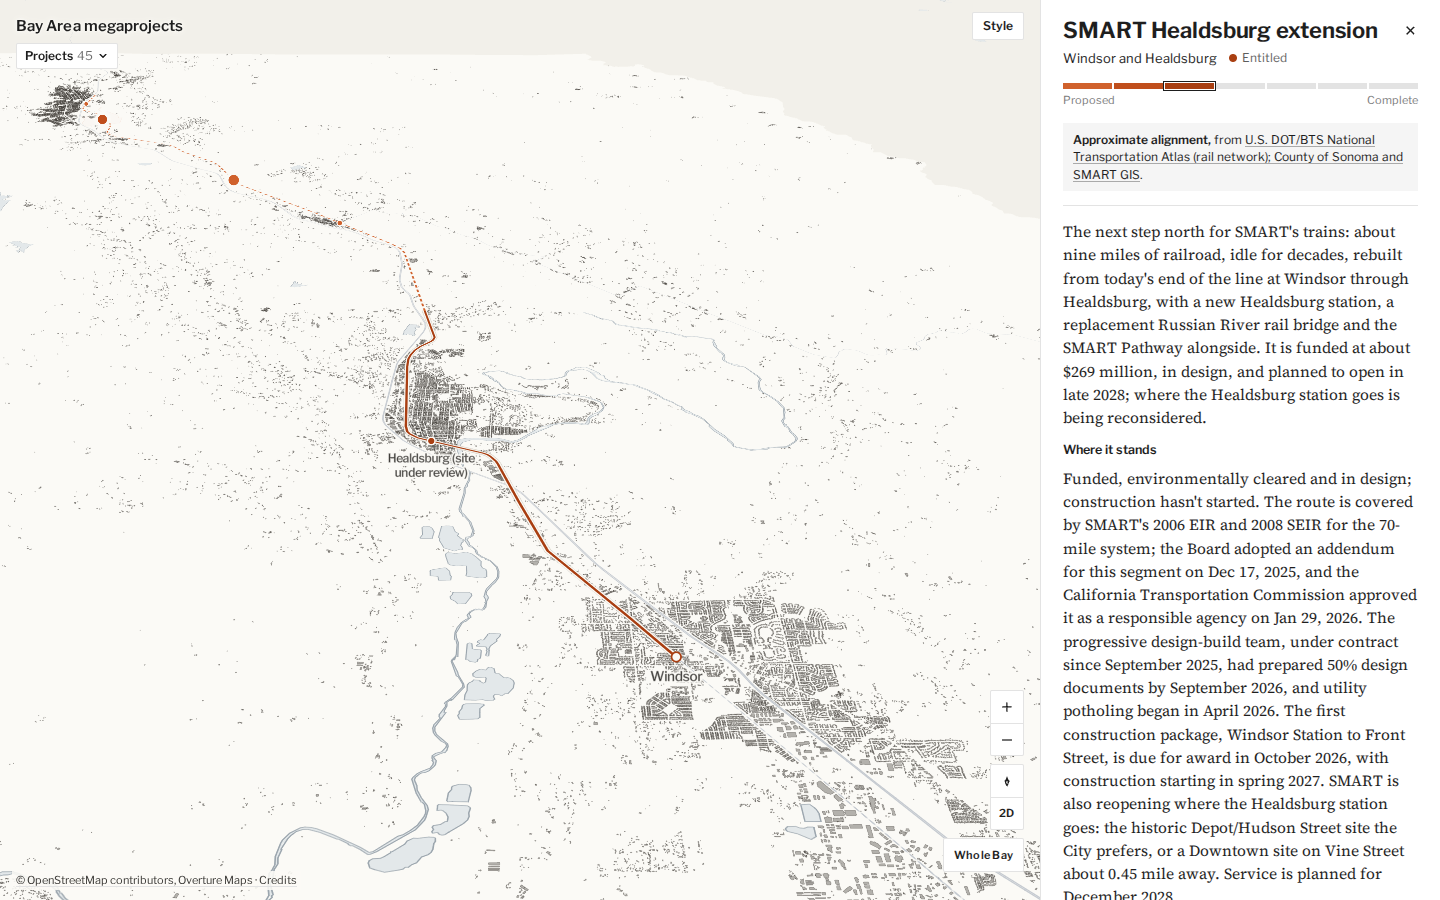
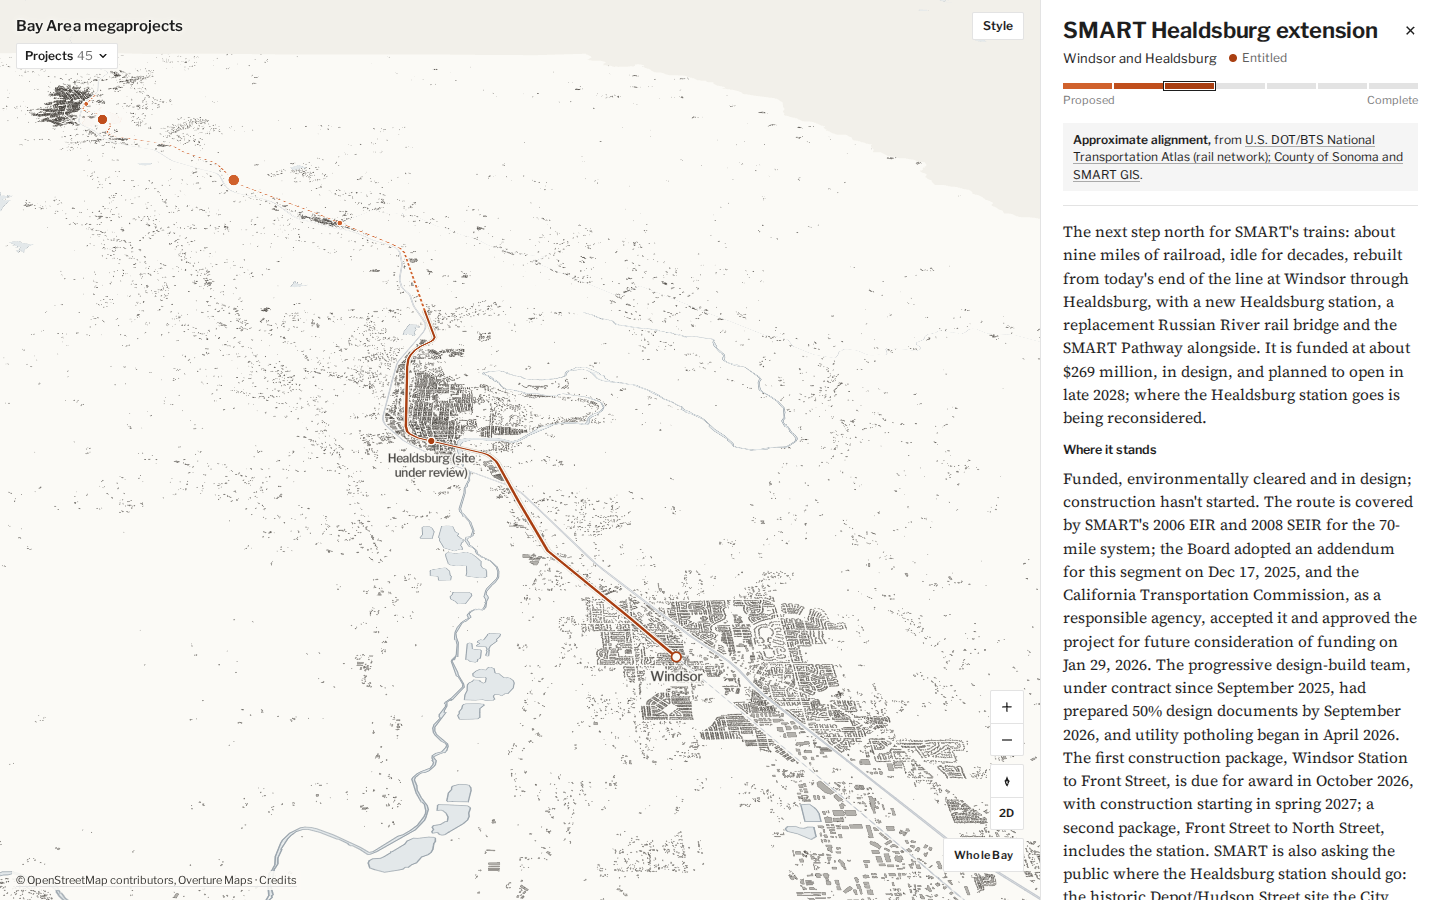
Docs: drop the unsupported fact count and Oct 21 award date; note the open site-dash question
Claude-Session: https://claude.ai/code/session_016VJVJfAh3hq9HfWnSkFL7B

Changed region(s): [[0.7188, 0.6533, 1.0, 1.0]]

diff --git a/docs/OFFICIAL-SOURCES.md b/docs/OFFICIAL-SOURCES.md
@@ -128,7 +128,7 @@ supersede it.
   from it: Potrero's ordinance numbers once the Mayor signs; Esmeralda after the Council's
   Oct 14, 2026 action; Mare Island's CEQA notice of preparation (City: late summer 2026).
 - SMART (added 2026-10-08, `docs/official-research/candidates-smart.md`): the CTC's vote on the $162.2M Healdsburg
-  construction allocation (Oct 15-16, 2026), the Phase 2A award (SMART Board, Oct 21), the Healdsburg station
+  construction allocation (Oct 15-16, 2026), the Phase 2A award (targeted October 2026; no Board agenda posted as of Oct 8), the Healdsburg station
   site (Board, December 2026), and any Cloverdale funding. Hosts `sonomamarintrain.org` and `planbayarea.org`
   were approved by Matthew on 2026-10-07.
 - Lead: CEQAnet lists a final EIR for the Tanforan Redevelopment Project (City of San

diff --git a/CHANGELOG.md b/CHANGELOG.md
@@ -7,7 +7,8 @@ says what changed, why and against which source. Code changes live in git histor
 
 Two line projects added at Matthew's request ("the green line additions for SMART"). Research:
 `docs/official-research/candidates-smart.md`. Every claim was then re-checked adversarially on Oct 8: 270 held,
-37 corrections were applied, and 18 newer official facts were added. Hosts approved: `sonomamarintrain.org` and
+37 corrections were applied (several of them newer official facts, such as the Phase I amendment and the CTC's
+Oct 15-16 allocation) and 3 flags were overturned. Hosts approved: `sonomamarintrain.org` and
 `planbayarea.org`.
 
 - **smart-healdsburg** (`entitled`): about 9 miles from Windsor to Lytton Springs Road, with a new Healdsburg station.

diff --git a/docs/DECISIONS.md b/docs/DECISIONS.md
@@ -209,3 +209,7 @@ The contrast check now measures the selection against this ground (about 13:1).
 - `sonomamarintrain.org` and `planbayarea.org` are accepted as official hosts.
 - Follow-on map change: a proposed line project is dashed (the stage spec's "outline only (dashed)"), and the open
   line's station names draw above other projects' markers.
+- Open for Matthew: proposed sites still draw a solid outline and faint fill. Either bring them to the spec (dashed
+  outline, no fill) or record that only lines are dashed.
+- The panel now shows a line project's program notes (scope, funding) under "Program", after "Where it stands", when it has no housing or
+  floor-area numbers; before, transit projects' notes were hidden.
